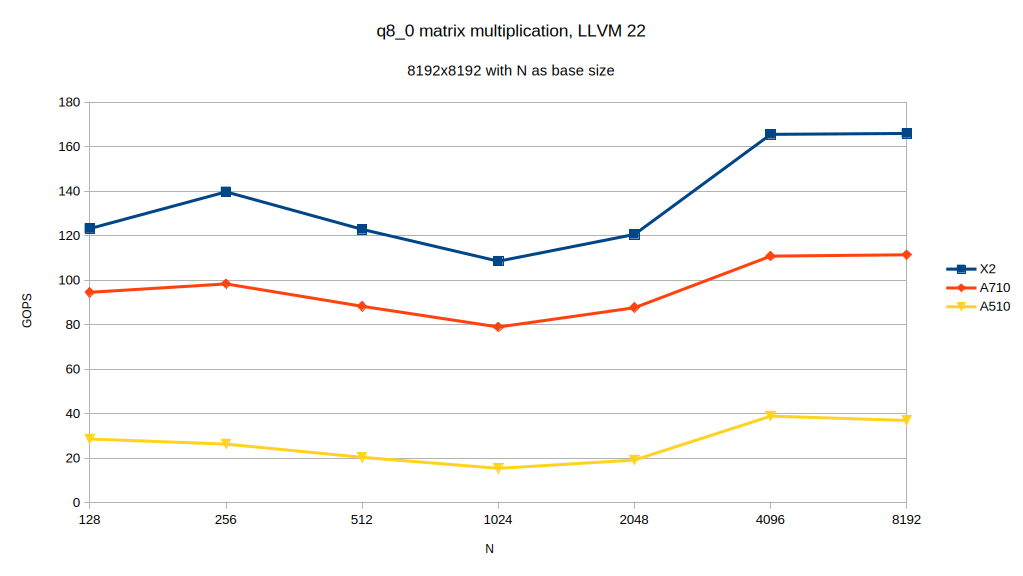
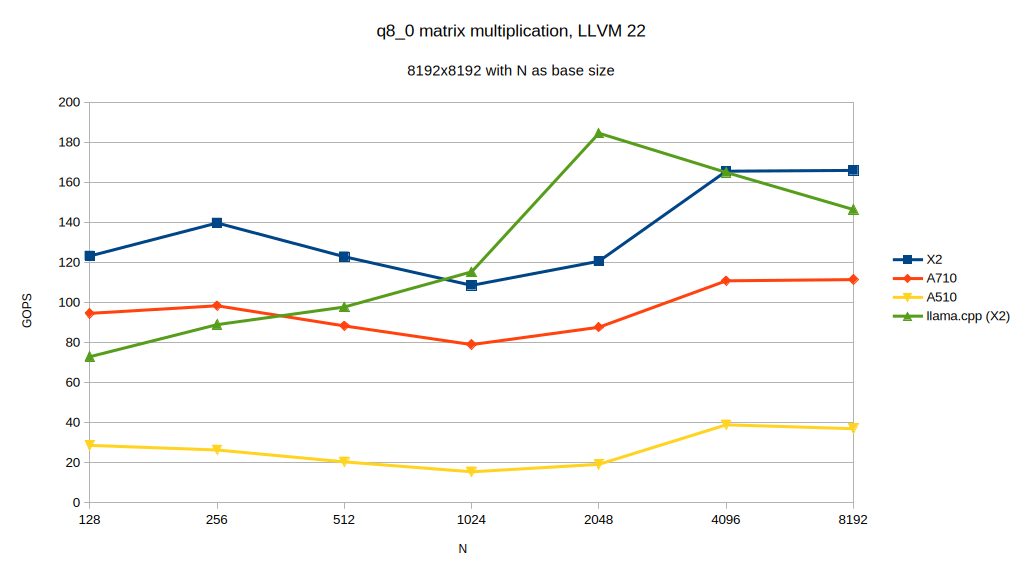
update comparison

diff --git a/README.md b/README.md
@@ -34,9 +34,12 @@ This interleave 4 row-blocks (of size 2) to make sure the A- and B- tiles were a
 ![](https://raw.githubusercontent.com/pt13762104/matmulcode/refs/heads/main/perf_int8.png)
 
 ## q8_0_4x4.cpp
-Re-implementation of the q8_0_4x4 format of llama.cpp. Performance is equal to llama.cpp at size 4096 and above, but is better at lower matrix sizes. There's no repacking code at the moment.
+Re-implementation of the q8_0_4x4 format of llama.cpp. There's no repacking code at the moment.
 
 ### Performance
+
+I can't explain the drop in performance for N from 512 to 2048, probably due to some cache associativity reasons? llama.cpp is with NxNxN multiplication through test-backend-ops, and the curve looks reasonable.
+ 
 ![](https://raw.githubusercontent.com/pt13762104/matmulcode/refs/heads/main/perf_q8_0_4_4.png)
 
 ## fp32_32x32.cpp